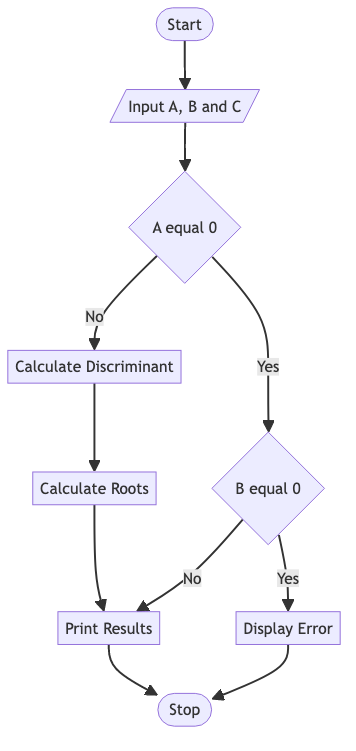
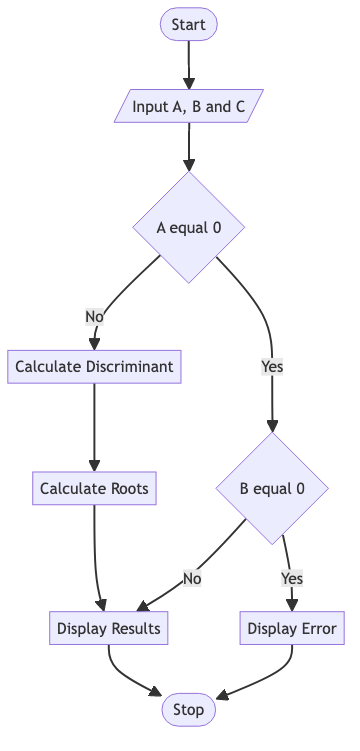
Update

diff --git a/Year2/Analysis_and_Desgin_of_Algorithms_6236/Lab1/flowchart.md b/Year2/Analysis_and_Desgin_of_Algorithms_6236/Lab1/flowchart.md
@@ -4,7 +4,7 @@ graph TD
   B[/Input A, B and C/] --> C{A equal 0}
   C -- No --> D[Calculate Discriminant]
   D --> E[Calculate Roots]
-  E --> F[Print Results] --> I
+  E --> F[Display Results] --> I
   C -- Yes --> G{B equal 0}
   G -- Yes --> H[Display Error] --> I
   G -- No --> F
